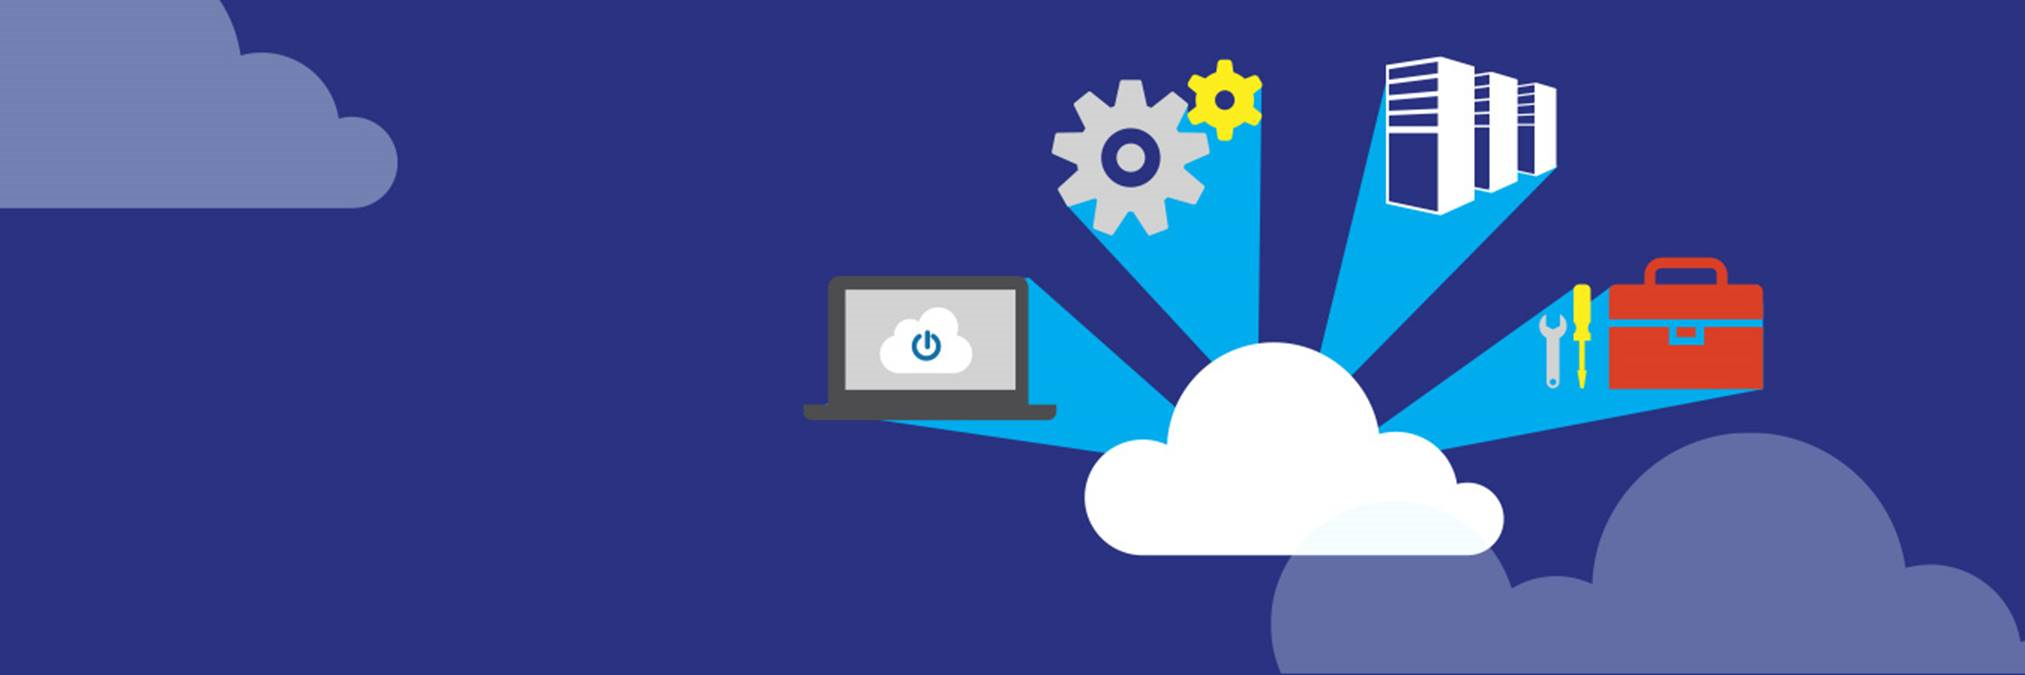
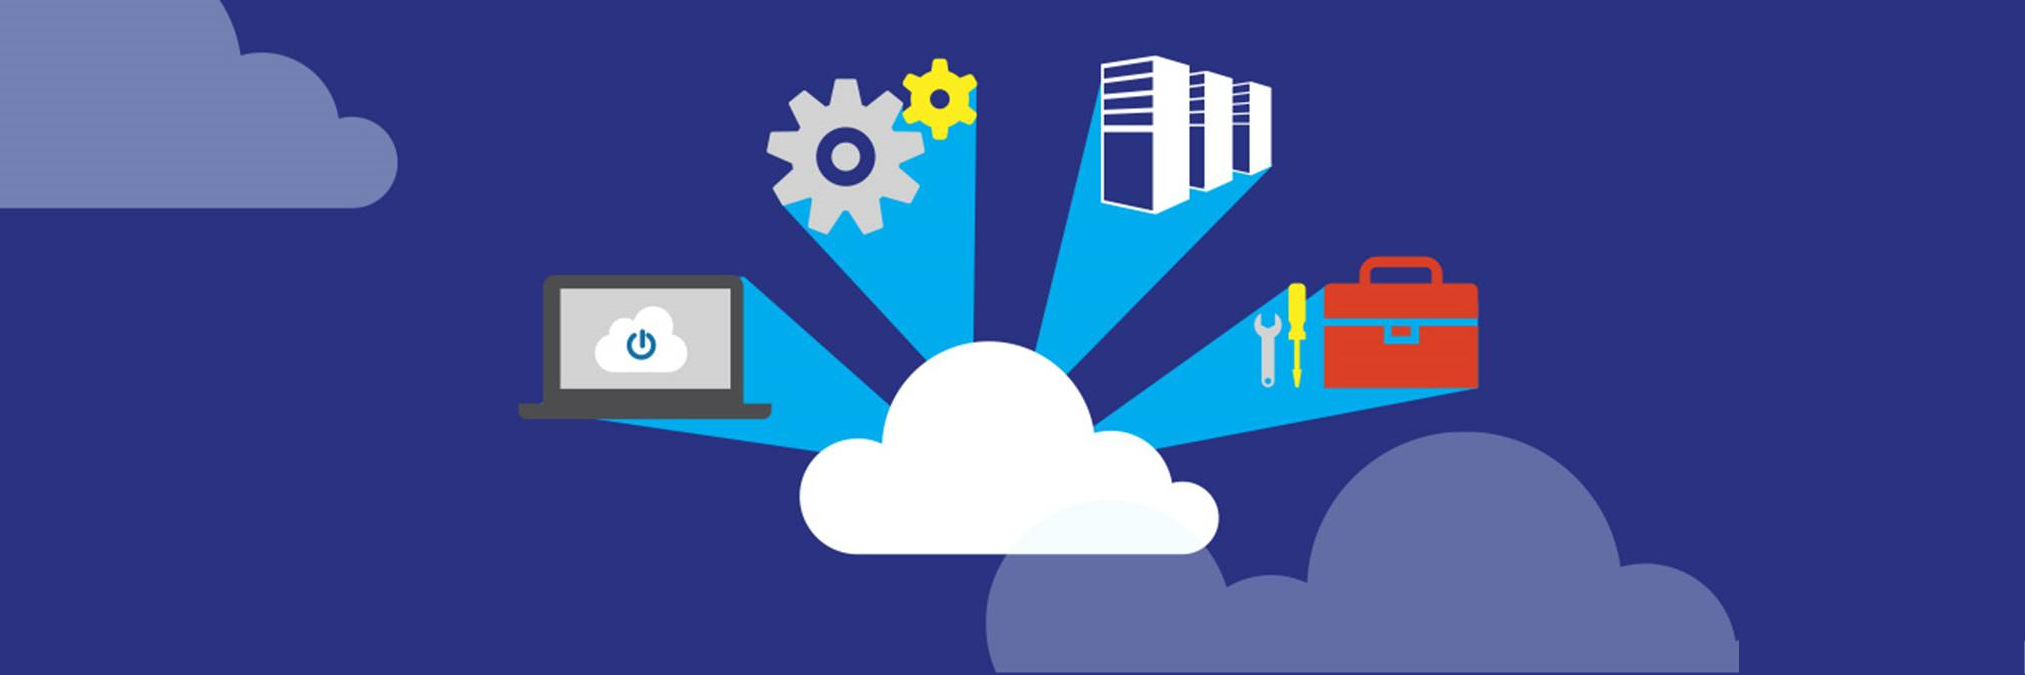
Adjusting colors, carousel title, carousel images

diff --git a/index.html b/index.html
@@ -35,12 +35,6 @@
         <nav class="navbar navbar-inverse navbar-static-top">
           <div class="container">
             <div class="navbar-header">
-              <button type="button" class="navbar-toggle collapsed" data-toggle="collapse" data-target="#navbar" aria-expanded="false" aria-controls="navbar">
-                <span class="sr-only">Toggle navigation</span>
-                <span class="icon-bar"></span>
-                <span class="icon-bar"></span>
-                <span class="icon-bar"></span>
-              </button>
               <a class="navbar-brand" href="https://www.linkedin.com/in/csabatothdev/"><font>Csaba Technology Services</a>
             </div>
             <div id="navbar" class="navbar-collapse collapse">
@@ -49,7 +43,6 @@
             </div>
           </div>
         </nav>
-
       </div>
     </div>
 
@@ -64,7 +57,7 @@
       </ol>
       <div class="carousel-inner" role="listbox">
         <div class="item active">
-          <img class="" src="img/banner1.png" alt="Services banner 1">
+          <img class="img-cover-center" src="img/banner1.png" alt="Services banner 1">
           <div class="container">
             <div class="carousel-caption">
               <h1>Software Engineering</h1>
@@ -72,7 +65,7 @@
           </div>
         </div>
         <div class="item">
-          <img class="" src="img/banner2.png" alt="Services banner 2">
+          <img class="img-cover-center" src="img/banner2.png" alt="Services banner 2">
           <div class="container">
             <div class="carousel-caption">
               <h1>System Architecture</h1>

diff --git a/css/carousel.css b/css/carousel.css
@@ -45,12 +45,19 @@ body {
 /* Since positioning the image, we need to help out the caption */
 .carousel-caption {
   z-index: 10;
+  color: yellow;
+  text-shadow: -1px 1px 8px #000, 1px -1px 8px #000;
+  font-size-adjust: 1.25;
+}
+
+.carousel-caption > h1 {
+  line-height: 2.1;
 }
 
 /* Declare heights because of positioning of img element */
 .carousel .item {
   height: 500px;
-  background-color: #777;
+  background-color: #b8f3f9;
 }
 .carousel-inner > .item > img {
   margin-left: auto;
@@ -149,4 +156,9 @@ body {
     margin: auto;
     font-size: 50px;
   }
+}
+
+.img-cover-center {
+  object-fit: cover;
+  object-position: center top;
 }
